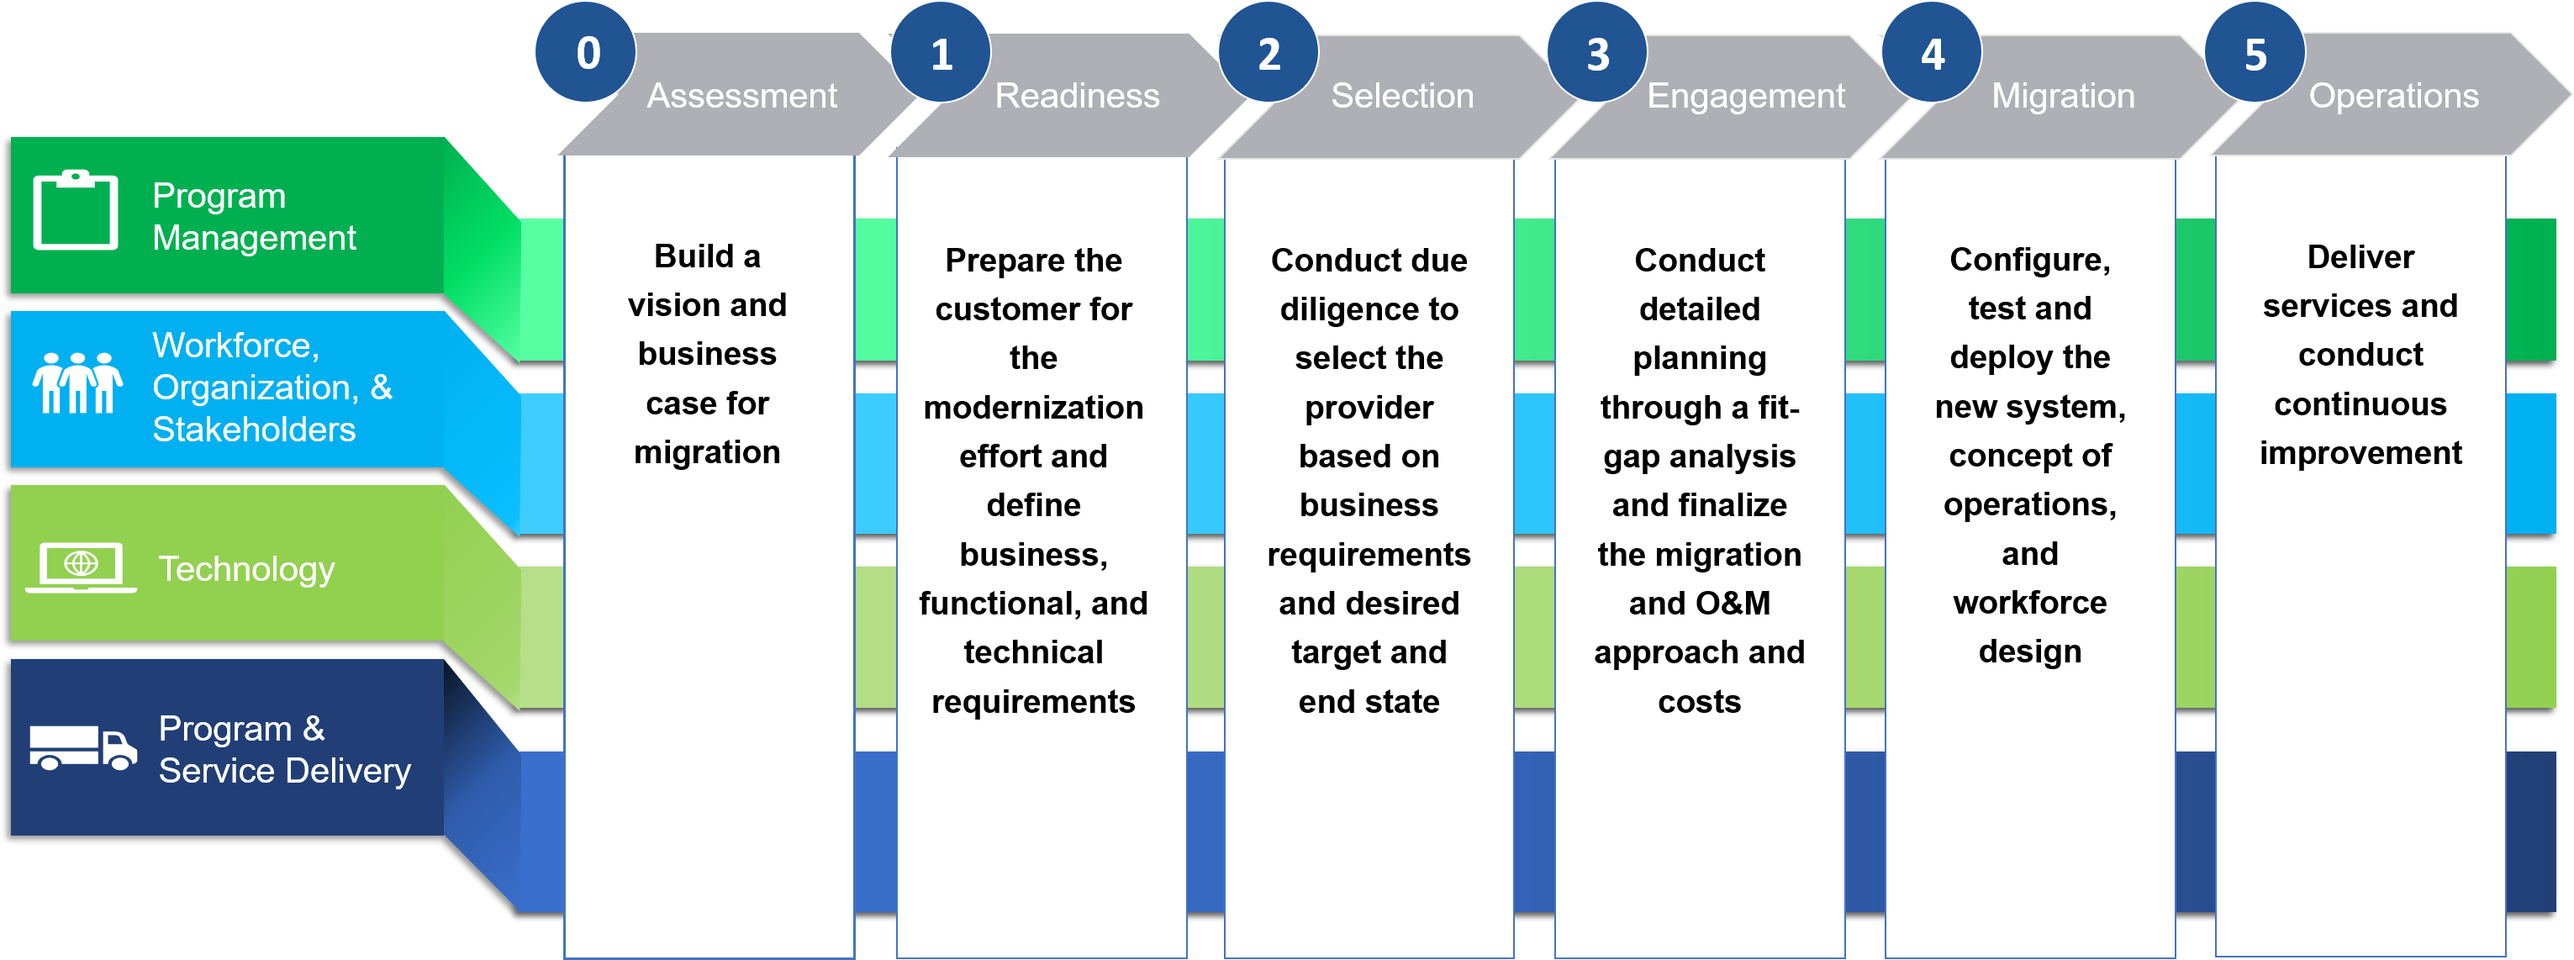
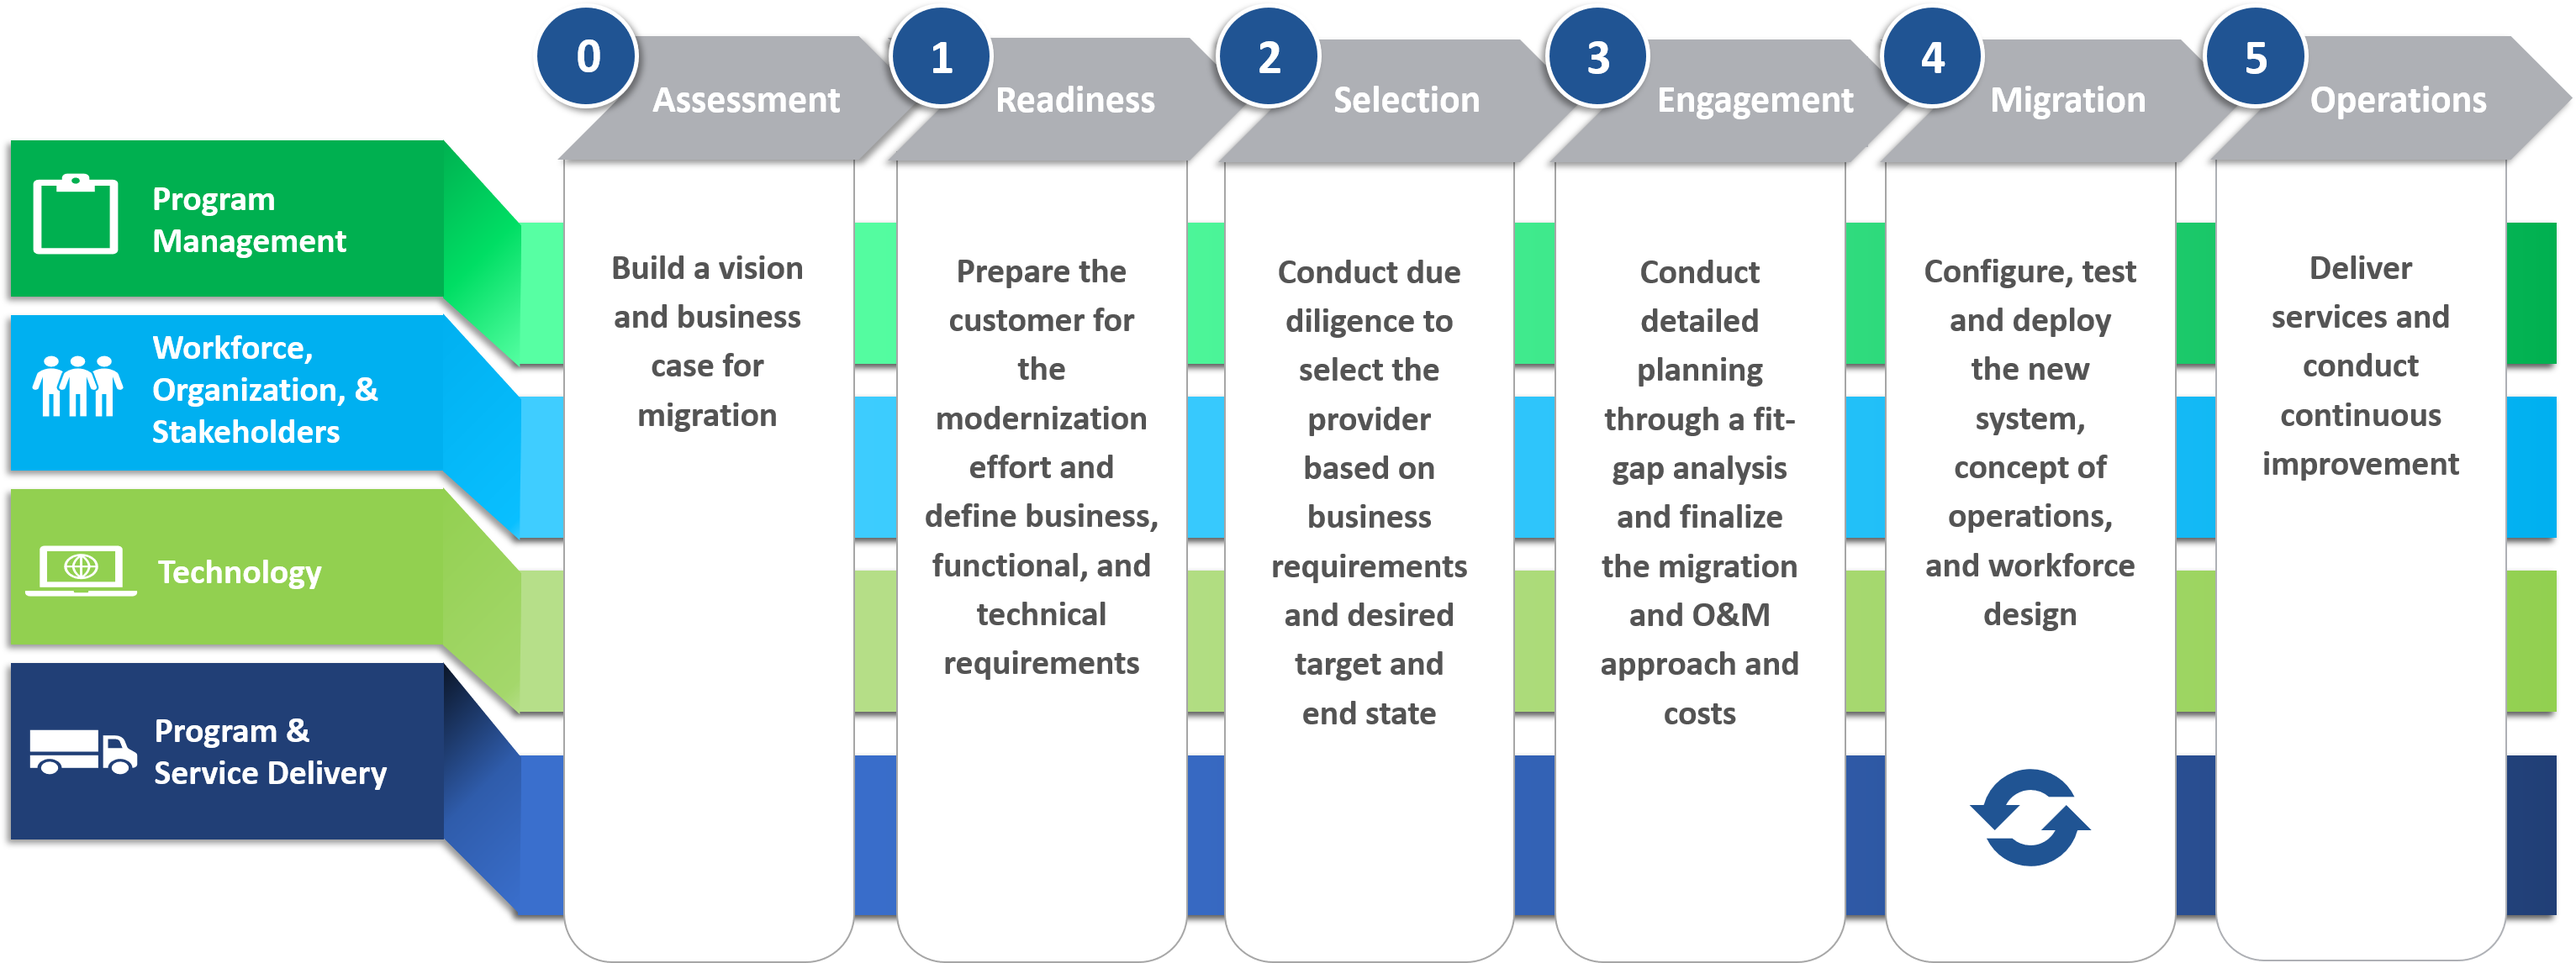
update graphic

diff --git a/_includes/m3intro.html b/_includes/m3intro.html
@@ -5,6 +5,7 @@
 
 <map name="image-map">
     <area target="" alt="M3 Framework Introduction" title="M3 Framework Introduction" href="/m3" coords="8,5,118,5,143,40,118,68,9,76" shape="poly">
+
     <area target="" alt="M3 Framework Overview" title="M3 Framework Overview" href="/m3overview" coords="278,35,243,69,123,73,153,35,125,5,242,6" shape="poly">
     <area target="" alt="M3 Phase 0 - Assessment" title="M3 Phase 0 - Assessment" href="/m3phase0" coords="404,39,373,71,250,69,282,37,255,5,370,5" shape="poly">
     <area target="" alt="M3 Phase 1 - Readiness" title="M3 Phase 1 - Readiness" href="/m3phase1" coords="536,35,504,73,378,71,408,41,386,7,505,5" shape="poly">
@@ -13,7 +14,11 @@
     <area target="" alt="M3 Phase 4 - Migration" title="M3 Phase 4 - Migration" href="/m3phase4" coords="931,36,897,71,777,71,806,36,783,5,891,2" shape="poly">
     <area target="" alt="M3 Phase 5 - Operations" title="M3 Phase 5 - Operations" href="/m3phase5" coords="1058,40,1024,72,912,70,940,37,910,1,1026,5" shape="poly">
     <area target="" alt="M3 Resources" title="M3 Resources" href="/m3resources" coords="1038,5,1156,6,1189,37,1164,68,1040,73,1062,39" shape="poly">
+    <div class=" usa-grid usa-width-one-whole">
+        <div class="speech-bubble" style=""><p style="margin-bottom;color:white;":0px;>Dive into the M3 Playbook by clicking on the arrows!</p></div>
+        </div>
 </map>
+
 <tbody>
 <tr>
 <td COLSPAN=2 style="font-family: calibri; font-size: 36px; color: #00a2e8; border: 1px solid #FFFFFF;"><span
@@ -22,49 +27,42 @@ class="PhaseTitle"></span></td>
 </table>
 
 
-<Table width="80%" style="border-style: hidden;"><tr><td  style="border-style: hidden;">
-<section class="usa-section">
+
+<Table width="80%" style="border-style: hidden;"><tr><td  style="border-style: hidden;z-index:10;">
+<section class="usa-section" style="padding-top:0px;padding-bottom:0px;">
   <div class="usa-grid">
     <div class="usa-width-one-whole usa-media_block">
   <!-- ****** INTRODUCTION TO MODERNIZZATION AND MIGRATION MANAGEMENT ******* -->
       <h1 style="color: #00a2e8;margin-bottom:15px;margin-top:0px;">Introduction to Modernization and Migration Management (M3)</h1>
 </div>
 
-
-<!--<table width="75%" style="border-style:hidden;">
-<tbody>
-<tr style="border-style:hidden;">
-<td style="font-family: calibri; font-size: 36px; color: #00a2e8;" width="40%">M3 Framework Overview</td>
-<td style="vertical-align: middle;" align="right">
-<table style="border-style:hidden; float: right;">
-<tbody>
-<tr style="border-style:hidden;">
-<td style="border-style:hidden;"><a href="https://s3.amazonaws.com/sitesusa/wp-content/uploads/sites/1041/2017/09/Approved-M3-Playbook.pdf" target="_new"><img src="https://s3.amazonaws.com/sitesusa/wp-content/uploads/sites/1041/2016/07/downloads.png" border="0" /></a></td>
-<td style="border-style:hidden; vertical-align: top;" valign="top">
-  &nbsp;
-  </td>
-</tr>
-</tbody>
-</table>
-</td>
-</tr>-->
-    <div class="usa-width-two-thirds usa-media_block">
+    <div class="usa-width-one-whole usa-media_block">
       <p>Transitions are difficult but can be successful with sufficient planning and follow-through.  Modernization and Migration Management (M3) is a framework to help agencies achieve successful outcomes and reduce risk during administrative system and/or service modernizations and migrations.</p>
-    </div>
-    <div class="usa-width-one-third usa-media_block" style="background-color:#112e51;border-radius: .4em;">
-      <h4 style="padding:25px;color:white;">Dive into the M3 Playbook by clicking on the arrows above!</h4>
+      <h5 style="padding:16px;color:white;background-color:#112e51;border-radius:.4em;width:244px;cursor:pointer;">Download the M3 Playbook</h5>
+      </div>
     <!--  <a href="https://s3.amazonaws.com/sitesusa/wp-content/uploads/sites/1041/2017/09/Approved-M3-Playbook.pdf" target="_new1"><img src="https://s3.amazonaws.com/sitesusa/wp-content/uploads/sites/1041/2016/07/downloads.png" border="0" /></a><BR>
       1. <a href="https://ussm.gov/assets/files/2018_M3_Playbook_Final.pdf">Modernization and Migration Framework (M3) Playbook</a><BR>
       2. <a href="https://ussm.gov/assets/files/M3PlaybookGuidance9.13.18FINAL.pdf">M3 Playbook Guidance</a><BR>
       <span style="font-family: calibri;">*Tools/Templates Available Under Phase and Resources tabs.</span>-->
     </div>
-  </div>
+
 </section>
+<section class="usa-section usa-graphic_list">
+  <div class="usa-grid usa-graphic_list-row">
+    <div class="usa-width-one-whole usa-media_block">
+       <div class="usa-media_block-body">
+    <h2>What is the M3 Framework?</h2>
+    <p stlye="padding-bottom:10px;">The M3 Framework segments modernizations and migrations into discrete phases. Each phase includes a series of objectives and recommended activities that are groups across four workstreams. <!-- Program Management; Workforce, Org, & Stakeholders; Technology; and Process & Service Delivery.--></p >
+      <br>
   <CENTER>
-    <!--<img src="/assets/img/project-images/m3-framework.png" style="width:85%;">-->
+    <img src="/assets/img/project-images/m3-framework.png">
     <BR>
  Figure 1
  </CENTER>
+
+     </div>
+   </div>
+ </section>
   <!--<a href="https://s3.amazonaws.com/sitesusa/wp-content/uploads/sites/1041/2017/08/IRP-Introduction-Playbook-Update-Image-8.16.17.png"><img
 
 src="https://s3.amazonaws.com/sitesusa/wp-content/uploads/sites/1041/2017/08/IRP-Introduction-Playbook-Update-Image-8.16.17.png"
@@ -72,42 +70,12 @@ alt="" width="934" height="492" /></a>-->
       <!--<span style="text-align: -webkit-center;">Figure 1: Overview of USSM M3 Framework, Investment Review Process, and Playbook
 </span>-->
 
-<section class="usa-section usa-graphic_list" style="padding-bottom:0;">
-   <div class="usa-grid usa-graphic_list-row">
-      <div class="usa-width-one-whole usa-media_block">
-        <div class="usa-media_block-body" >
-            <h2>What is the M3 Framework?</h2>
 
-              <p stlye="padding-bottom:10px;">The M3 Framework segments modernizations and migrations into discrete phases. Each phase includes a series of objectives and recommended activities that are groups across four workstreams: <!-- Program Management; Workforce, Org, & Stakeholders; Technology; and Process & Service Delivery.--></p >
-        </div>
-          <center>
-           <div class="usa-width-one-fourth usa-media_block">
-             <img src="../assets/img/project-icons/pm.png" style="width:60px;">
-             <p style="margin-top:0px;">Project Mangament</p>
-            </div>
-           <div class="usa-width-one-fourth usa-media_block">
-            <img src="../assets/img/project-icons/workforce.png" style="width:60px;">
-            <p style="margin-top:0px;">Workforce, Organization, & Stakeholders</p>
-           </div>
-          <div class="usa-width-one-fourth usa-media_block">
-            <img src="../assets/img/project-icons/tech.png" style="width:60px;">
-            <p style="margin-top:0px;">Technology</p>
-         </div>
-         <div class="usa-width-one-fourth usa-media_block">
-            <img src="../assets/img/project-icons/deliver.png" style="width:60px;">
-            <p style="margin-top:0px;">Process & Service Delivery</p>
-         </div>
-       </div>
-       </center>
-         </div>
-       </div>
-     </div>
- </section>
  <section class="usa-section usa-graphic_list">
    <div class="usa-grid usa-graphic_list-row">
      <div class="usa-width-one-whole usa-media_block">
         <div class="usa-media_block-body">
-      <h3>What is the M3 Playbook?</h3>
+      <h2>What is the M3 Playbook?</h2>
 
         <p>The Playbook is guidance and tools to help agencies plan for and navigate a transition.  It was developed based on feedback from over 100 Government and industry experts, reflects best practices and lessons learned from prior migrations and is updated annually.</p>
 

diff --git a/_sass/_qsmo.scss b/_sass/_qsmo.scss
@@ -211,3 +211,27 @@
  color: #ffffff;
  text-decoration: none;
 }
+
+.speech-bubble {
+	position: relative;
+	background: #112e51;
+	border-radius: .4em;
+  z-index: 9999;
+  width:390px;
+}
+
+.speech-bubble:after {
+	content: '';
+	position: absolute;
+	top: 0;
+	left: 50%;
+	width: 0;
+	height: 0;
+	border: 20px solid transparent;
+	border-bottom-color: #112e51;
+	border-top: 0;
+	border-right: 0;
+	margin-left: -18px;
+	margin-top: -19px;
+
+}
